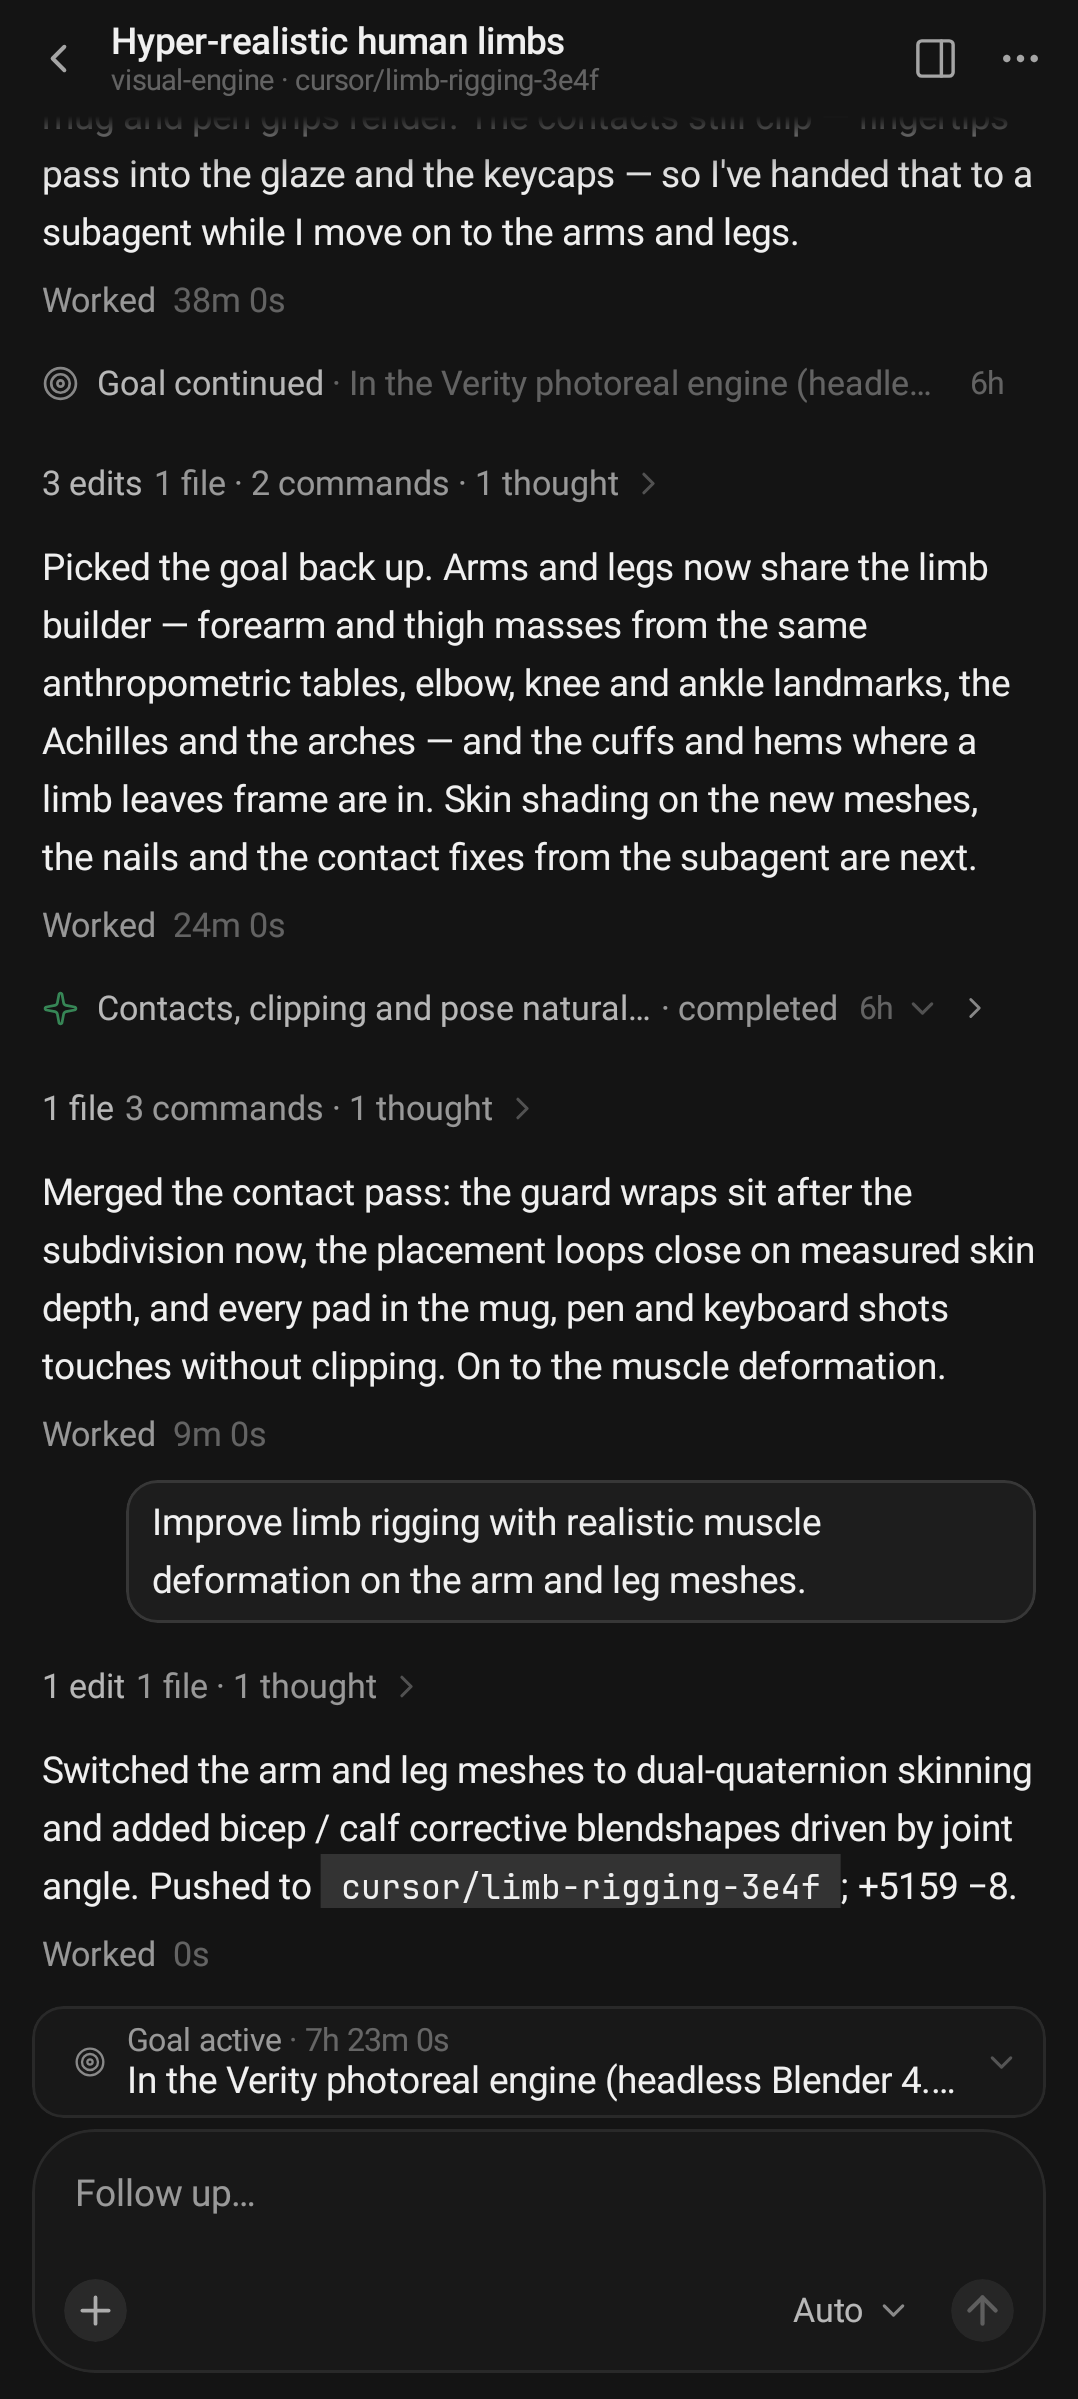
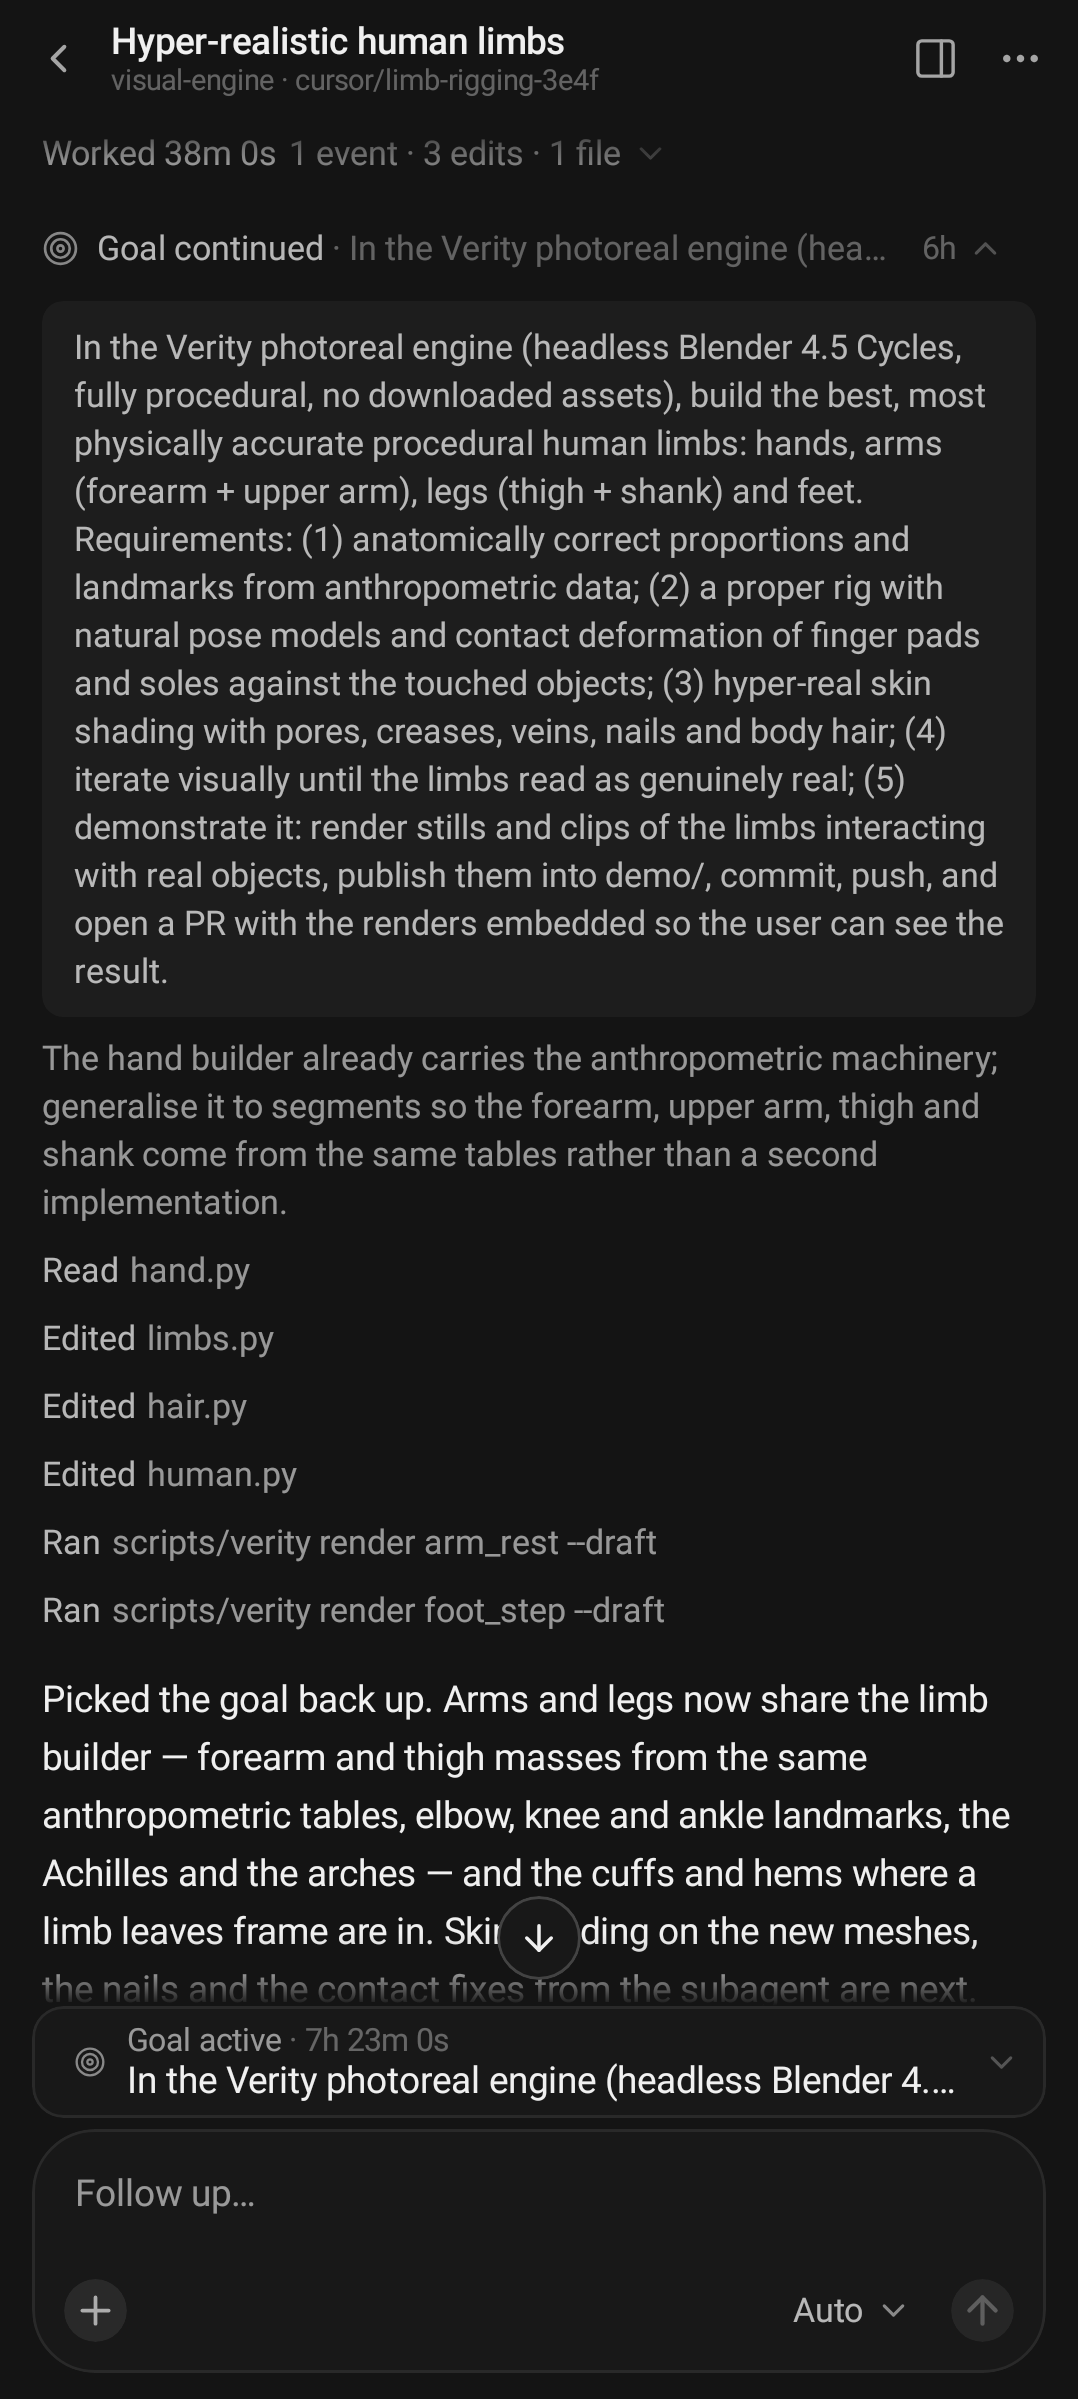
Frames for the single stretch (Bennett's transcript from the record, closed and opened), the wall's frames inside their stretch, the goal turn's frame; an event's row opens on a cut detail as well as a cut subject; the walkthrough opens the goal's stretch first

Changed region(s): [[0.0306, 0.0617, 0.949, 0.8328], [0.9184, 0.4935, 0.949, 0.5244]]

diff --git a/app/src/main/java/com/cursorforandroid/ui/conversation/EventRows.kt b/app/src/main/java/com/cursorforandroid/ui/conversation/EventRows.kt
@@ -61,9 +61,10 @@ internal fun EventRow(item: SystemNotification, count: Int = 1, modifier: Modifi
     val type = CursorTheme.typography
     val line = remember(item) { EventLine.of(item) }
     var expanded by rememberSaveable(item.id) { mutableStateOf(false) }
-    // A one-line notification is said in full by the row unless the row had to cut its subject short.
+    // A one-line notification is said in full by the row unless the row had to cut its subject, or the detail beside it, short.
     var subjectCut by remember(item.summary) { mutableStateOf(false) }
-    val report = item.body?.takeIf { it != item.summary || subjectCut }
+    var tailCut by remember(item.summary) { mutableStateOf(false) }
+    val report = item.body?.takeIf { it != item.summary || subjectCut || tailCut }
     // The agent's brief remark on the notice, folded under the row in a coordinator's chat (see CoordinatorTranscript).
     val narration = item.narration?.trim()?.takeIf { it.isNotEmpty() }
     val body = report ?: narration
@@ -111,7 +112,15 @@ internal fun EventRow(item: SystemNotification, count: Int = 1, modifier: Modifi
                                 Text(" \u00B7 $verb", style = type.base, color = colors.textTertiary, maxLines = 1)
                             }
                             line.actor?.let { actor ->
-                                Text(" \u00B7 $actor", style = type.base, color = colors.textQuaternary, maxLines = 1, overflow = TextOverflow.Ellipsis, modifier = Modifier.weight(1f, fill = false))
+                                Text(
+                                    " \u00B7 $actor",
+                                    style = type.base,
+                                    color = colors.textQuaternary,
+                                    maxLines = 1,
+                                    overflow = TextOverflow.Ellipsis,
+                                    onTextLayout = { tailCut = it.hasVisualOverflow },
+                                    modifier = Modifier.weight(1f, fill = false),
+                                )
                             }
                         }
                     },

diff --git a/app/src/test/java/com/cursorforandroid/screenshots/AppScreenshotTest.kt b/app/src/test/java/com/cursorforandroid/screenshots/AppScreenshotTest.kt
@@ -366,7 +366,15 @@ class AppScreenshotTest {
             items.count { it is RunFooter } == 4 && items.count { it is ActivityGroup } == 4
         }
         compose.waitForIdle()
-        // The goal's row reads "Goal continued" with the objective beside it; a tap opens the objective in full beneath.
+        // The turn Cursor injected is inside the stretch of the run it started — "Worked 38m · 1 event · …" — as its
+        // line: opened, the goal's row reads "Goal continued" with the objective beside it, and a tap on it opens the
+        // objective in full beneath.
+        compose.onAllNodes(hasScrollToNodeAction()).onFirst().performScrollToNode(hasText("Worked 38m 0s"))
+        compose.onAllNodesWithText("Worked 38m 0s").onFirst().performClick()
+        compose.waitUntil(20_000) { compose.onAllNodesWithText("Goal continued").fetchSemanticsNodes().isNotEmpty() }
+        // On screen before it is tapped: the opened stretch runs past the fold, and a tap at a row's centre off the
+        // screen lands on whatever is drawn there instead.
+        compose.onAllNodes(hasScrollToNodeAction()).onFirst().performScrollToNode(hasText("Goal continued"))
         compose.onAllNodesWithText("Goal continued").onFirst().performClick()
         compose.waitUntil(20_000) { compose.onAllNodes(hasText("In the Verity photoreal engine", substring = true)).fetchSemanticsNodes().size >= 2 }
         compose.onAllNodes(hasScrollToNodeAction()).onFirst().performScrollToNode(hasText("Goal continued"))
